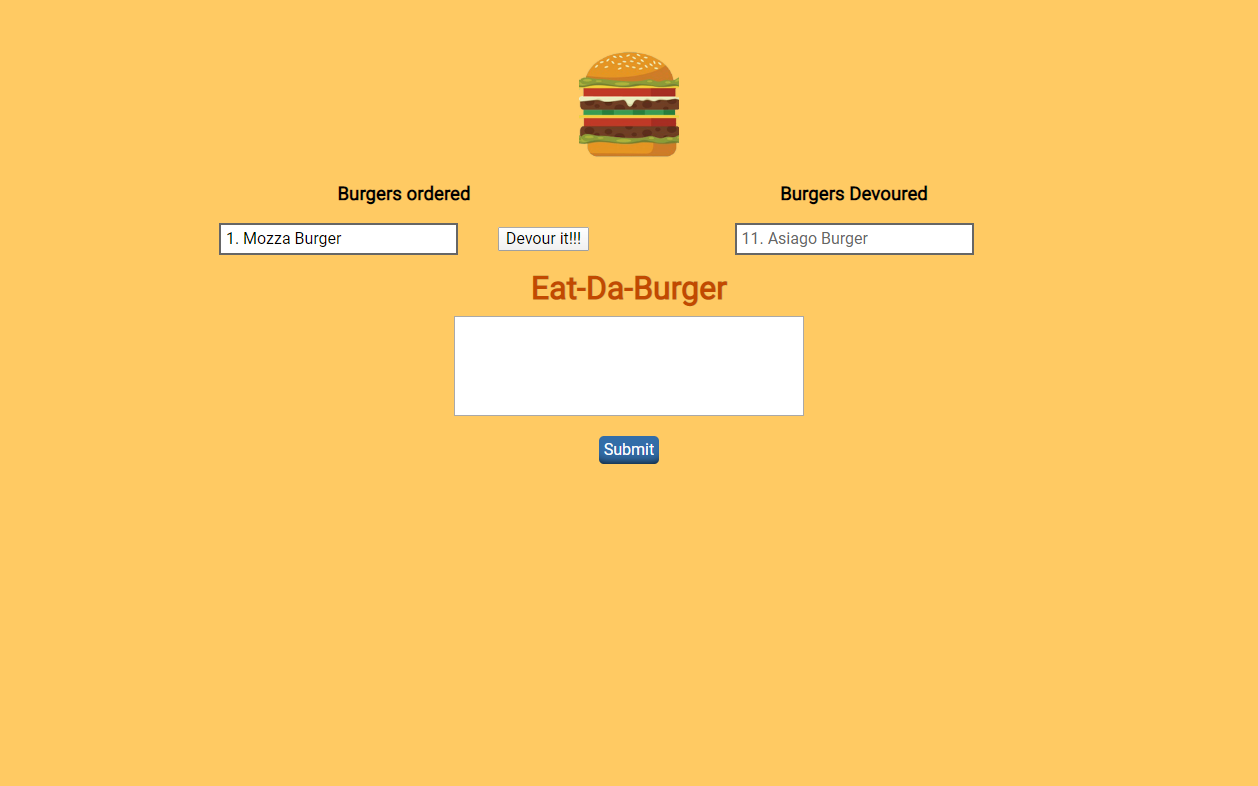
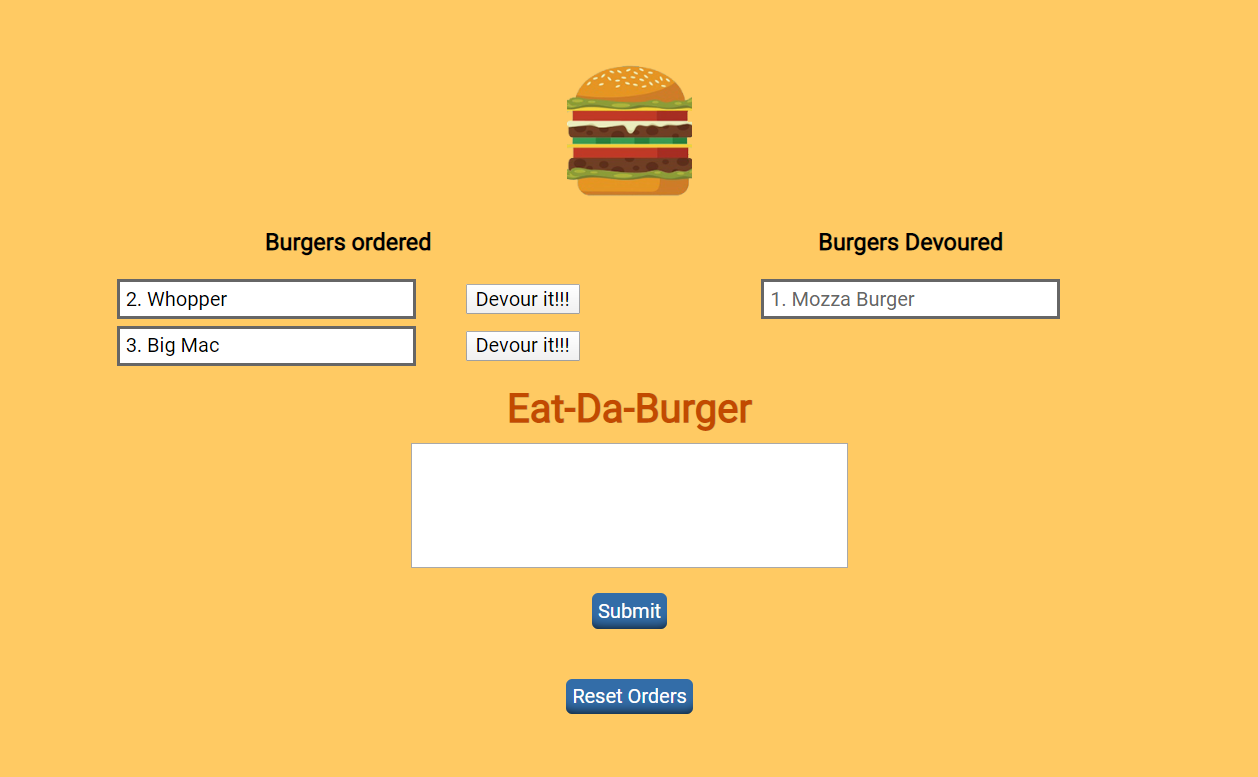
Added removal function in html view

Changed region(s): [[0.093, 0.2162, 0.868, 0.834], [0.434, 0.0618, 0.558, 0.278], [0.434, 0.8649, 0.558, 0.9266]]

diff --git a/server.js b/server.js
@@ -45,12 +45,12 @@ app.get("/", function(req, res) {
       let  orderedBurgers = [];
       let  devouredBurgers = [];
   
+      // Sets a display id for burgers views
       data.forEach(item => {
         if(item.devoured === 0){
           let str = String(item.id);
           let strDigitDrop = str.substring(0, str.length - 1);
           item.display_id = parseInt(strDigitDrop);
-          console.log(item);
           orderedBurgers.push(item);
         }else{
           let str = String(item.id);
@@ -145,14 +145,41 @@ app.put('/api/burgers/:id', (req, res) => {
   });
 
   promisedBurger.then((successMessage) => {
-    // successMessage is whatever we passed in the resolve(...) function above.
-    // It doesn't have to be a string, but if it is only a succeed message, it probably will be.
     res.send(successMessage);
   });
 
 
 })
 
+
+/* DELETE REQUEST */
+
+app.delete('/api/burgers/', (req, res) => {
+  let connection = mysql.createConnection(db_config);
+
+  let promisedBurger = new Promise((resolve, reject) => {
+    connection.query(`TRUNCATE TABLE burgers;`, function(err, data) {
+      if (err) {
+        return res.status(500).end();
+      }
+      connection.query(`ALTER TABLE burgers AUTO_INCREMENT=11;`, function(err, data) {
+        if (err) {
+          return res.status(500).end();
+        }
+        connection.end();
+        resolve("200"); // Yay! Everything went well!
+      });
+    });
+  });
+
+  promisedBurger.then((successMessage) => {
+    // Set Auto Increment to 11 so it will always have at least 2 digits to process correctly for ids
+    
+    res.send(successMessage);
+  });
+
+
+})
 
 // End of request Handling
 

diff --git a/public/assets/js/script.js b/public/assets/js/script.js
@@ -65,7 +65,7 @@ let getAndRenderBurgers = function() {
 //*************************** PUT REQUEST *********************************//
 
 // 2. A function for updating a burger from the db
-var putBurger = function(id) {
+let putBurger = function(id) {
   return $.ajax({
     url: "/api/burgers/" + id,
     method: "PUT"
@@ -73,10 +73,31 @@ var putBurger = function(id) {
 };
 
 // 1. Click the burger
-var handleBurgerPut = function(id) {
+let handleBurgerPut = function(id) {
   // prevents the click listener for the list from being called when the button inside of it is clicked
 
   putBurger(id).then(function() {
+    location.reload();
+  });
+};
+
+//*************************** DELETE REQUEST *********************************//
+
+
+
+// 2. A function for deleting all notes from the db
+let deleteBurgers = function() {
+  return $.ajax({
+    url: "/api/burgers",
+    method: "DELETE"
+  });
+};
+
+// 1. Gets notes from the db
+let handleBurgerDelete = function() {
+  // prevents the click listener for the list from being called when the button inside of it is clicked
+
+  deleteBurgers().then(function() {
     location.reload();
   });
 };
@@ -87,11 +108,14 @@ var handleBurgerPut = function(id) {
 (function () {
   // Set initial 
   let burgersMenu = document.querySelectorAll("#burgersDBdata #burgers div button");
+  let burgersReset = document.querySelector('#burgerReset');
   //console.log(burgersMenu);
   
   burgersMenu.forEach((burger) =>{
     burger.addEventListener("click", function() { handleBurgerPut(this.getAttribute('data-id')) });
   });
+
+  burgersReset.addEventListener("click", function() { handleBurgerDelete()});
   
 }());
 

diff --git a/public/assets/css/style.css b/public/assets/css/style.css
@@ -36,7 +36,7 @@ font-family: 'Roboto', sans-serif;
   text-align:center;
 }
 
-#burgerDisplay form button{
+#burgerSubmit, #burgerReset{
   margin: 20px auto;
   padding:5px;
   background-color:#336da8;
@@ -46,15 +46,6 @@ font-family: 'Roboto', sans-serif;
   cursor:pointer;
   box-shadow: inset 0 -10px 10px -10px #000000;
 }
-
-
-
-
-
-
-
-
-
 
 #burgerDisplay{
   display:flex;
